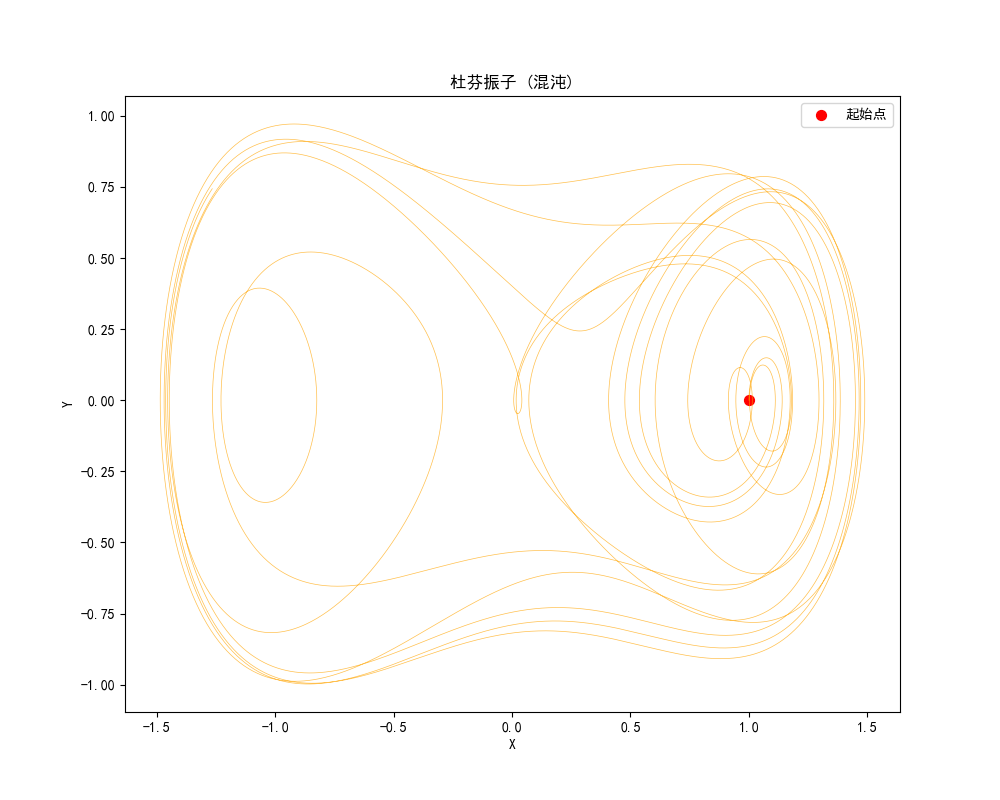
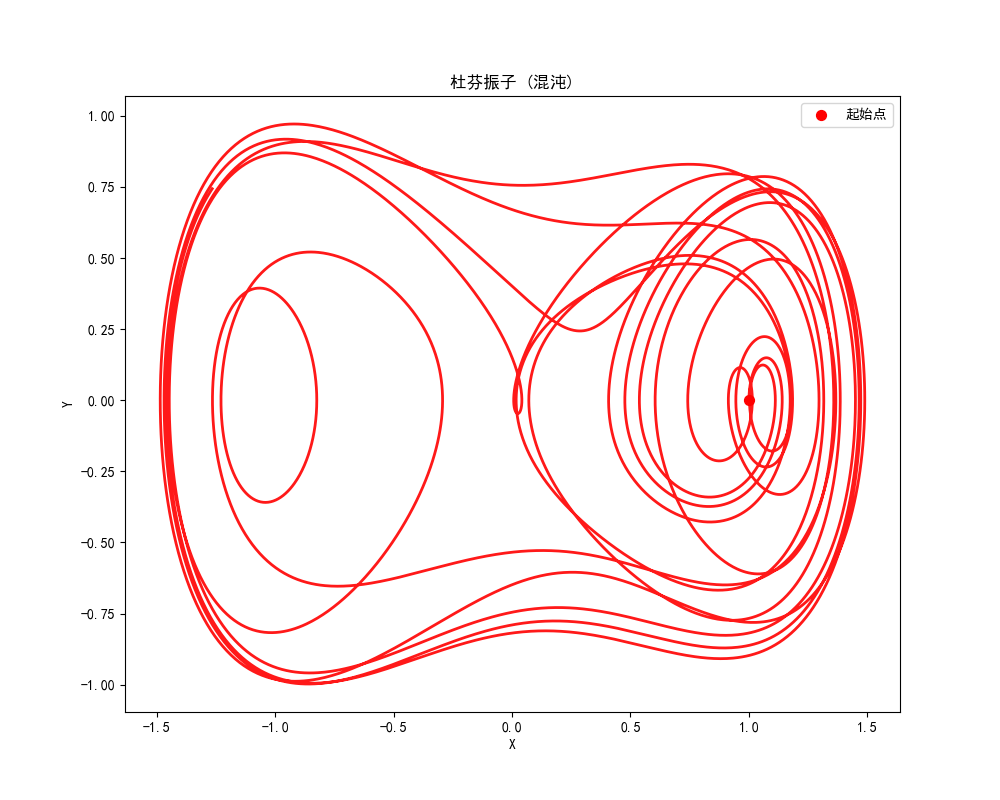
提交图片

diff --git a/plot/attractor_test.py b/plot/attractor_test.py
@@ -85,12 +85,12 @@ class ChaoticAttractors:
         ax.legend()
         return fig, ax
     
-    def plot_2d_attractor(self, trajectory, title, color='blue', alpha=0.7):
+    def plot_2d_attractor(self, trajectory, title, color='blue', alpha=0.9):
         """绘制2D吸引子"""
         fig, ax = plt.subplots(figsize=(10, 8))
         
         x, y = trajectory[:2]
-        ax.plot(x, y, color=color, alpha=alpha, linewidth=0.5)
+        ax.plot(x, y, color=color, alpha=alpha, linewidth=2)
         ax.scatter(x[0], y[0], color='red', s=50, label='起始点')
         
         ax.set_xlabel('X')
@@ -145,7 +145,7 @@ def generate_all_attractors():
     ca.t_span = (0, 100)  # 杜芬振子需要更长时间
     ca.t_eval = np.arange(0, 100, ca.dt)
     duffing_traj = ca.solve_system(ca.duffing_system, [1, 0])
-    fig5, _ = ca.plot_2d_attractor(duffing_traj, '杜芬振子 (混沌)', 'orange')
+    fig5, _ = ca.plot_2d_attractor(duffing_traj, '杜芬振子 (混沌)', 'red')
     
     # 6. 相图对比
     print("生成相图对比...")
@@ -156,7 +156,7 @@ def generate_all_attractors():
     
     # 洛伦兹相图 (x-y)
     lorenz_traj = ca.solve_system(ca.lorenz_system, [1, 1, 1])
-    axes[0,0].plot(lorenz_traj[0], lorenz_traj[1], 'b-', alpha=0.7, linewidth=0.5)
+    axes[0,0].plot(lorenz_traj[0], lorenz_traj[1], 'b-', alpha=0.7, linewidth=3)
     axes[0,0].set_title('洛伦兹 X-Y 相图')
     axes[0,0].set_xlabel('X')
     axes[0,0].set_ylabel('Y')
